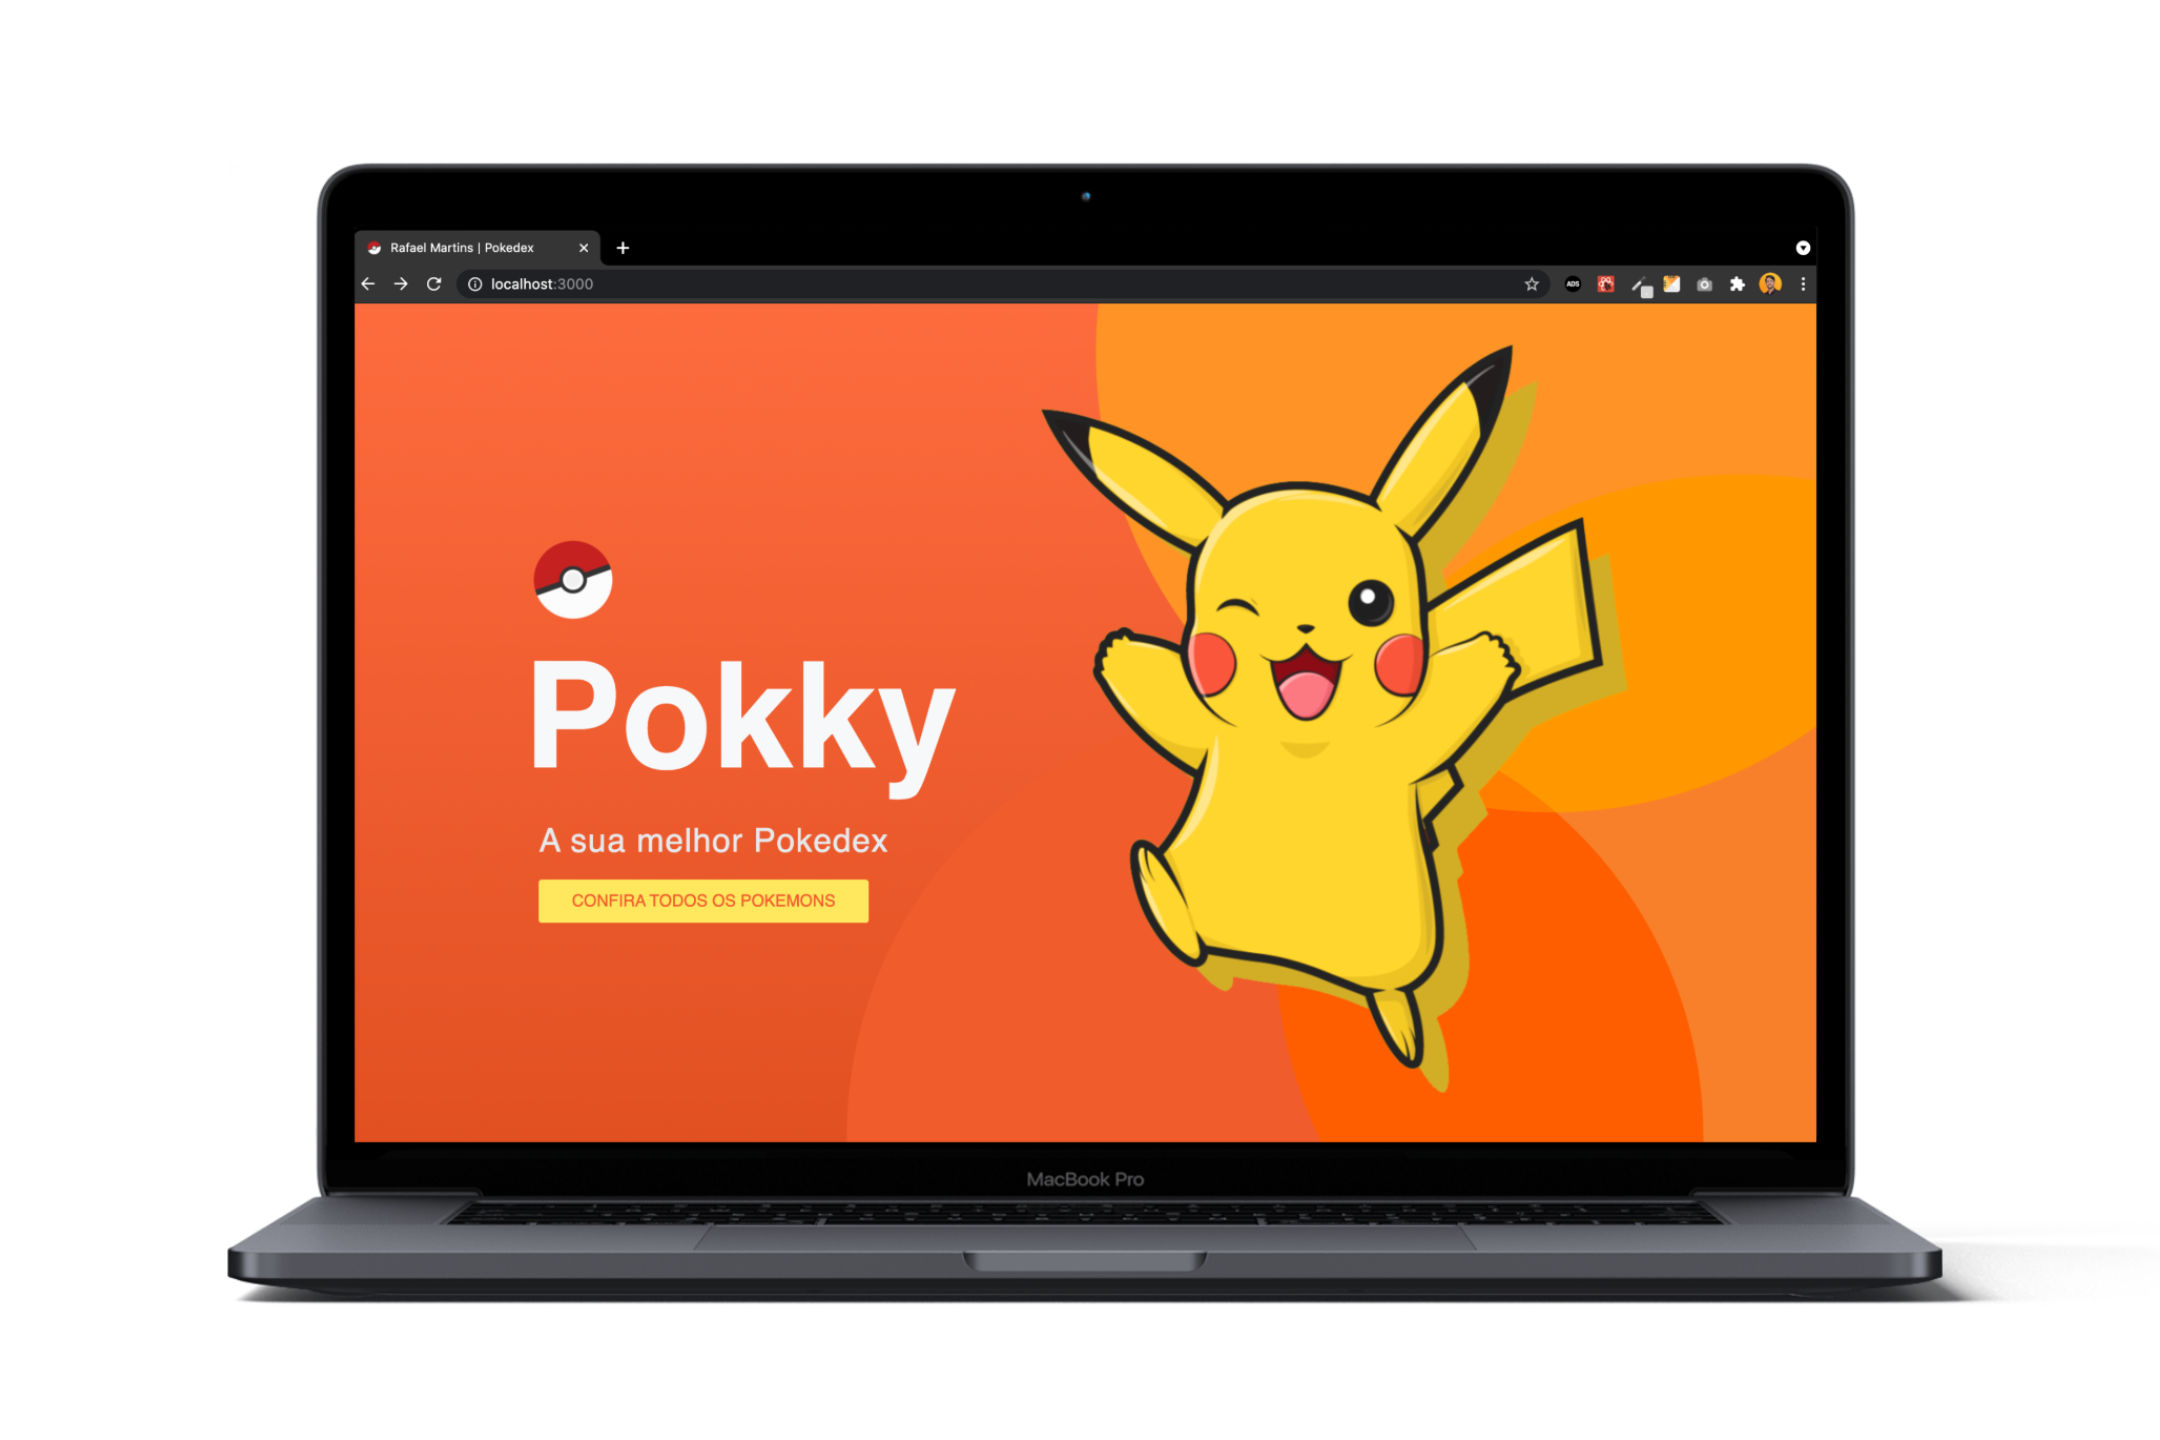
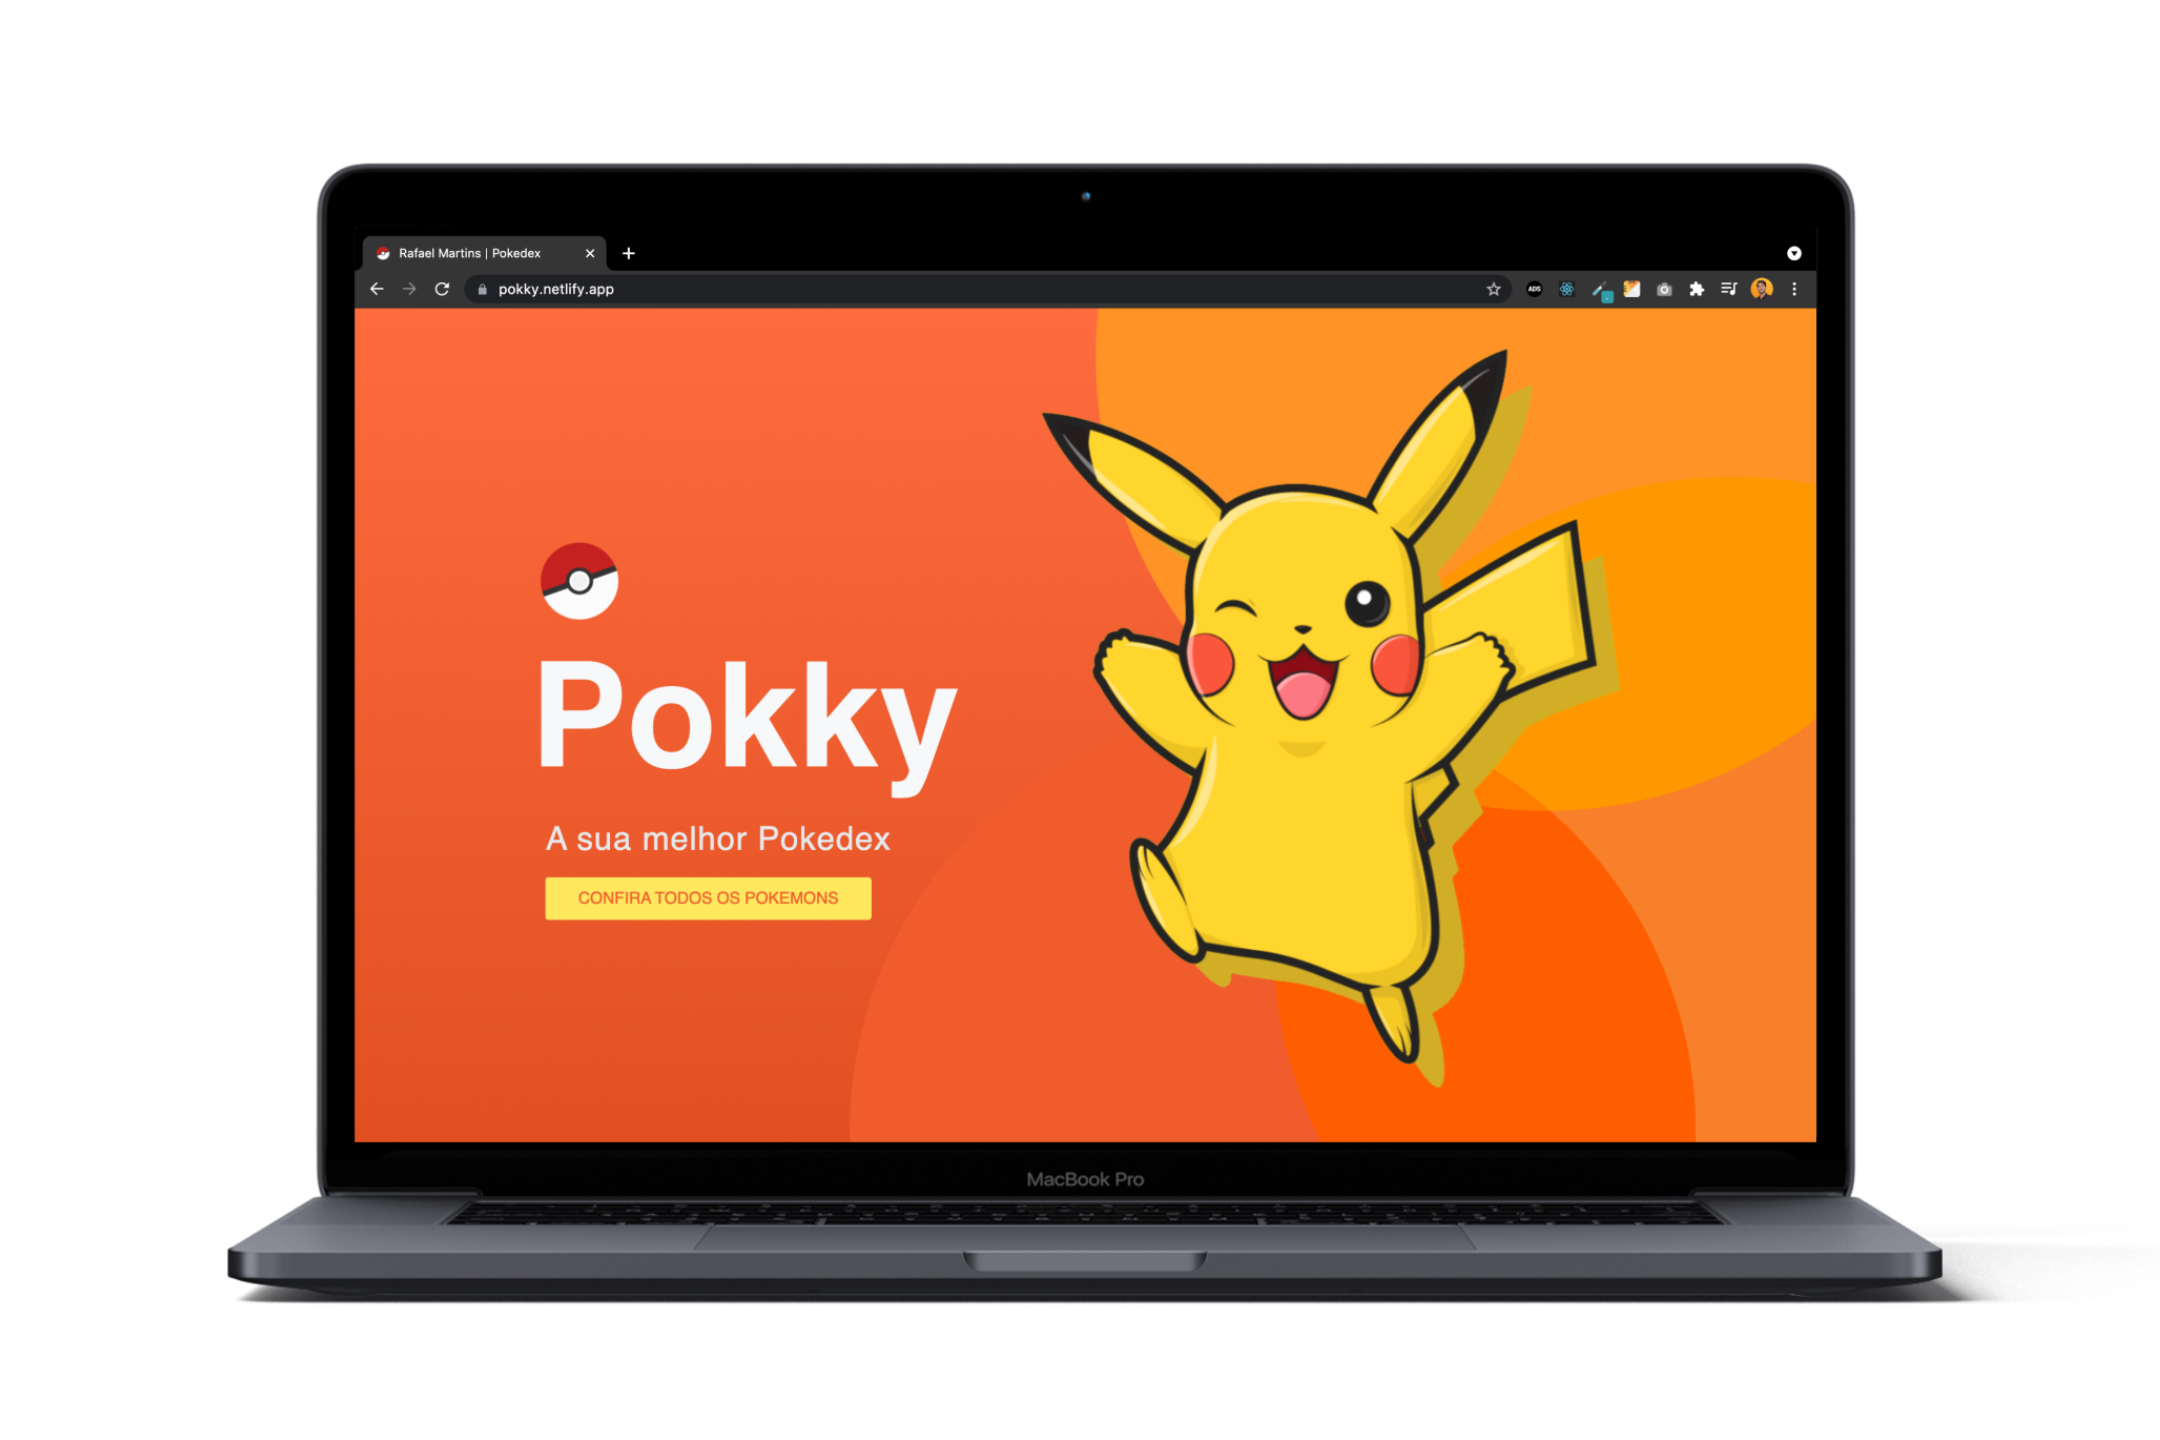
chore: update readme

diff --git a/README.md b/README.md
@@ -20,19 +20,24 @@
 <h4 align="center">
   <p>Pokky: The best Pokedex</p>
   
-  <p>This application was developed to resolve a test problem.</p>
+  <p>This is a frontend challenge to see how good are the developer skills.</p>
 
   <p>
-  The test consists in create a full application (back-end and front-end) to show the pokemons from api. The application needs to have a page to create new pokemons, a login page and a registration page. 
+  The test consists in create a full application (back-end and front-end) to list pokemons from the api. The application needs to have a page to create new pokemons, a login page and a registration page. 
 
   This application is being devoloped with Node.js and React JS.
+
+  For the Design I've decided to use Figma.
   </p>
 </h4>
 
 
 <p align="center">
   <a href="#rocket-technologies">Technologies</a>&nbsp;&nbsp;&nbsp;|&nbsp;&nbsp;&nbsp;
-  <a href="#information_source-how-to-use">How To Use</a>&nbsp;&nbsp;&nbsp;|&nbsp;&nbsp;&nbsp;
+  <a href="#eyes-check-it-out">Check it Out</a>&nbsp;&nbsp;&nbsp;|&nbsp;&nbsp;&nbsp;
+  <a href="#art-layout">Layout</a>&nbsp;&nbsp;&nbsp;|&nbsp;&nbsp;&nbsp;
+  <a href="#information_source-how-to-use">How to Use</a>&nbsp;&nbsp;&nbsp;|&nbsp;&nbsp;&nbsp;
+  <a href="#thumbsup-how-to-contribute">How to Contribute</a>&nbsp;&nbsp;&nbsp;|&nbsp;&nbsp;&nbsp;
   <a href="#memo-license">License</a>
 </p>
 
@@ -48,8 +53,20 @@ This project was developed with the following technologies:
 -  [JavaScript](https://developer.mozilla.org/pt-BR/docs/Web/JavaScript)
 -  [React JS](https://pt-br.reactjs.org/)
 -  [Styled-Components](https://styled-components.com/)
--  [Node.js](https://nodejs.org/en/)
+-  [Axios](https://github.com/axios/axios)
 -  [VS Code][vc] with [EditorConfig][vceditconfig] and [ESLint][vceslint]
+
+## :eyes: Check it Out
+
+You can try it here:
+
+-  [Pokky](https://pokky.netlify.app/)
+
+## :art: Layout
+
+You can check the layout here:
+
+-  [Figma](https://www.figma.com/file/qxMszguFf48SdT4Fqik3bf/Pokky?node-id=0%3A1)
 
 ## :information_source: How to use
 
